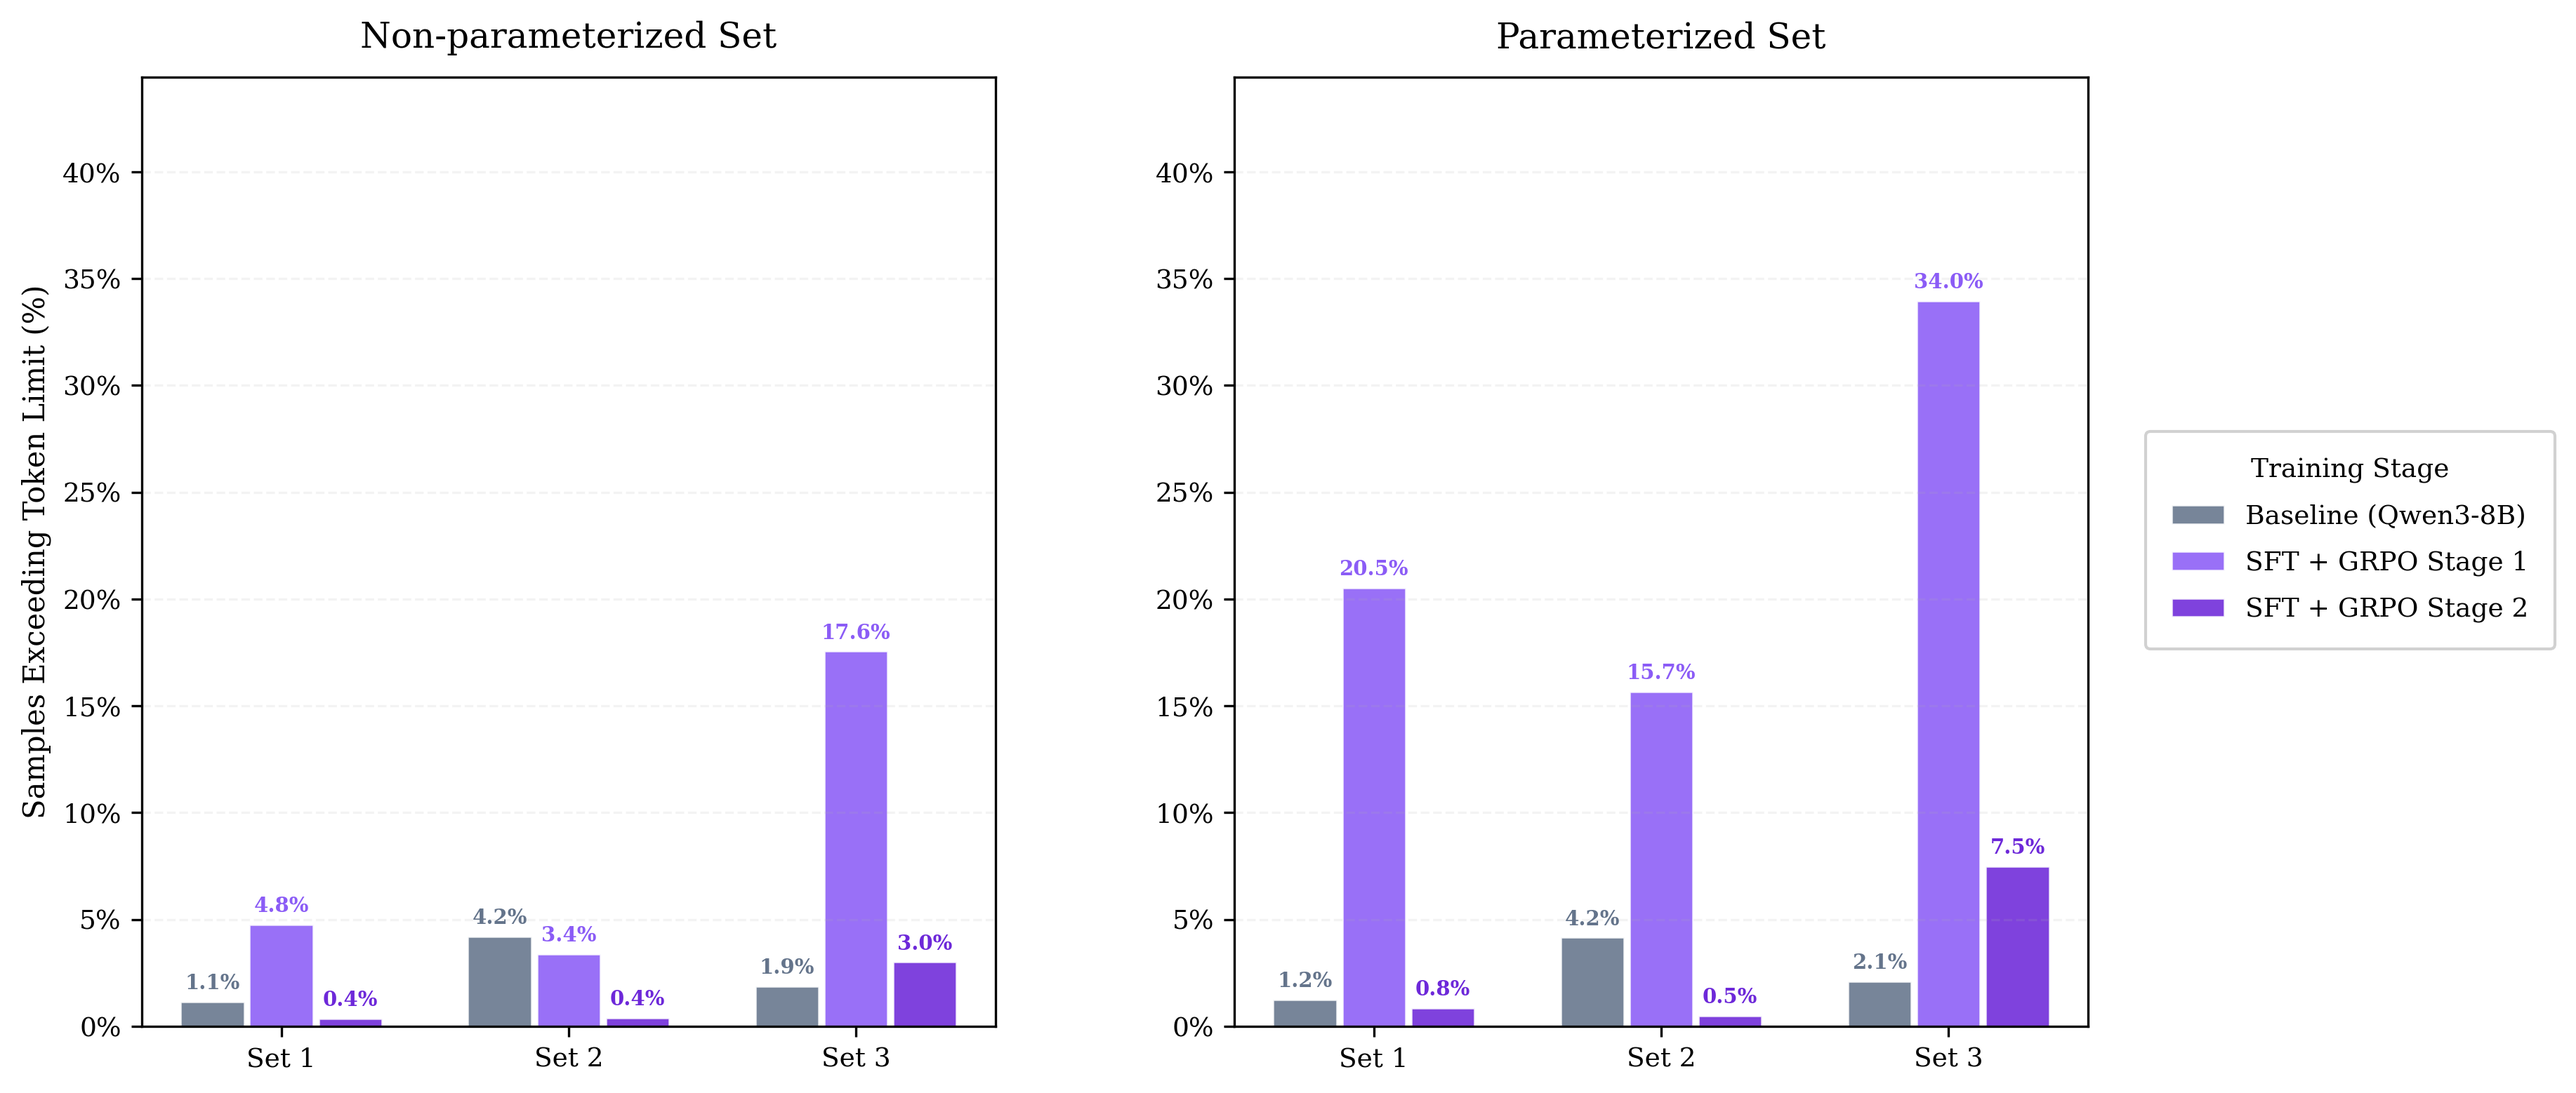
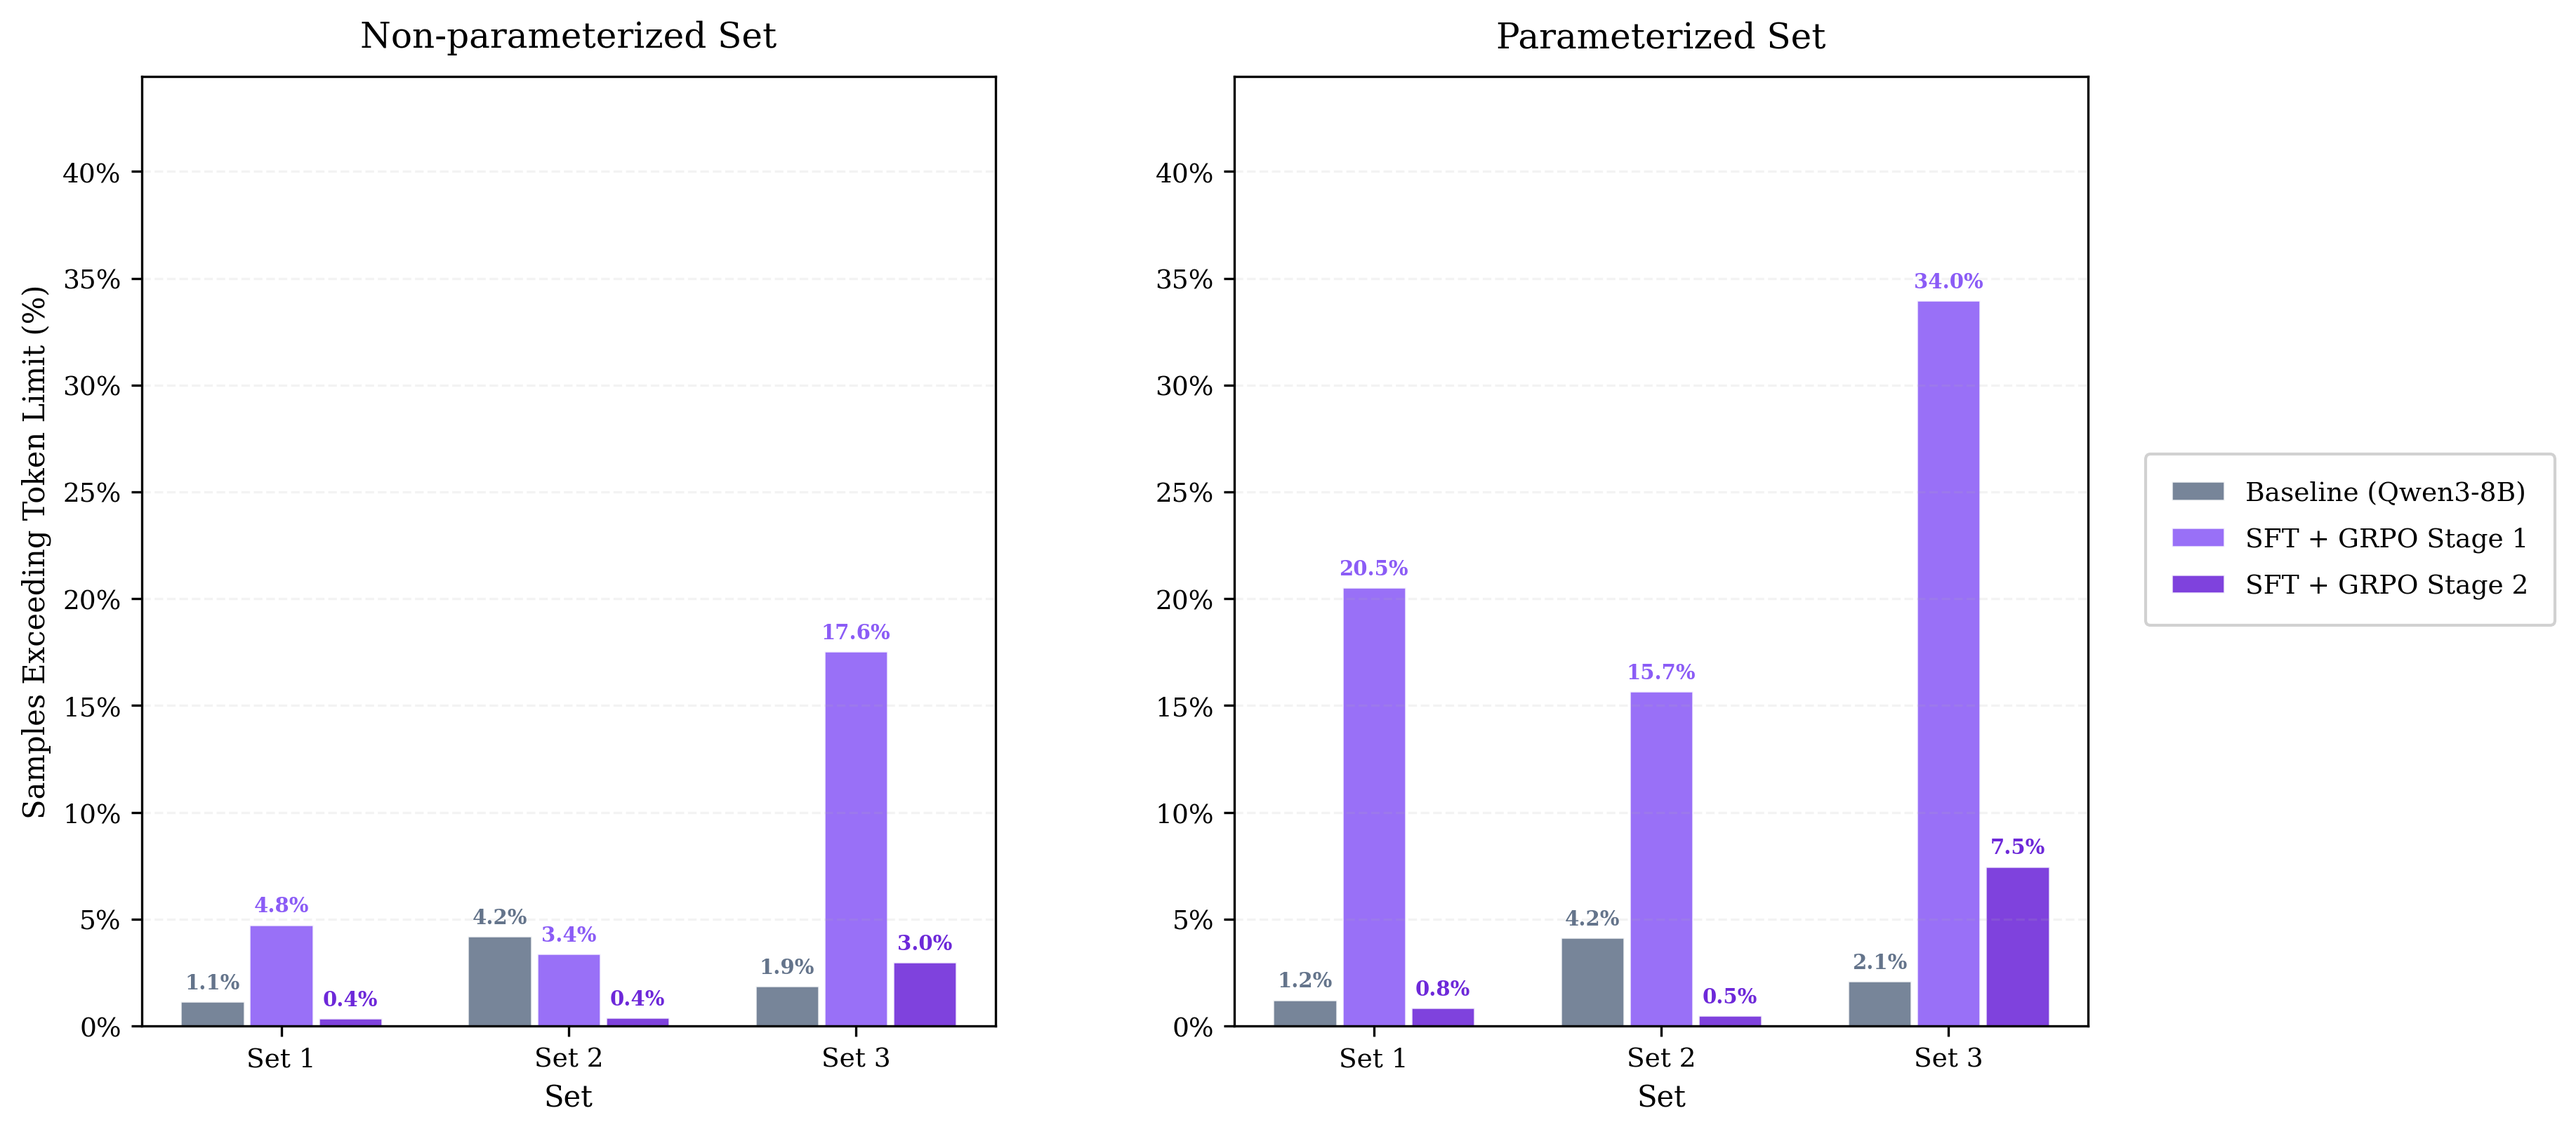
Update tvd barchart plots

diff --git a/visualization/plot_tvd_training_progression.py b/visualization/plot_tvd_training_progression.py
@@ -129,7 +129,7 @@ def _bar_panel(
     ax.set_title(title, fontsize=12, pad=10)
     ax.set_xticks(x)
     ax.set_xticklabels(split_labels, fontsize=9)
-    ax.set_xlabel("Test Split", fontsize=10)
+    ax.set_xlabel("Set", fontsize=10)
     if show_ylabel:
         ax.set_ylabel("Average TVD", fontsize=10)
     ax.set_ylim(0, 1.1)
@@ -403,6 +403,7 @@ def plot_token_limit_chart(
         ax.set_title(panel_title, fontsize=12, pad=10)
         ax.set_xticks(x)
         ax.set_xticklabels(split_labels, fontsize=9)
+        ax.set_xlabel("Set", fontsize=10)
         ax.set_ylabel("Samples Exceeding Token Limit (%)" if show_ylabel else "", fontsize=10)
         ax.grid(True, axis="y", which="major", linestyle="--", alpha=0.15, zorder=0)
         ax.set_ylim(0, y_top)
@@ -416,7 +417,6 @@ def plot_token_limit_chart(
         bbox_to_anchor=(0.755, 0.5),
         fontsize=9,
         framealpha=0.9,
-        title="Training Stage",
         title_fontsize=9,
         borderpad=1.0,
         labelspacing=0.8,
